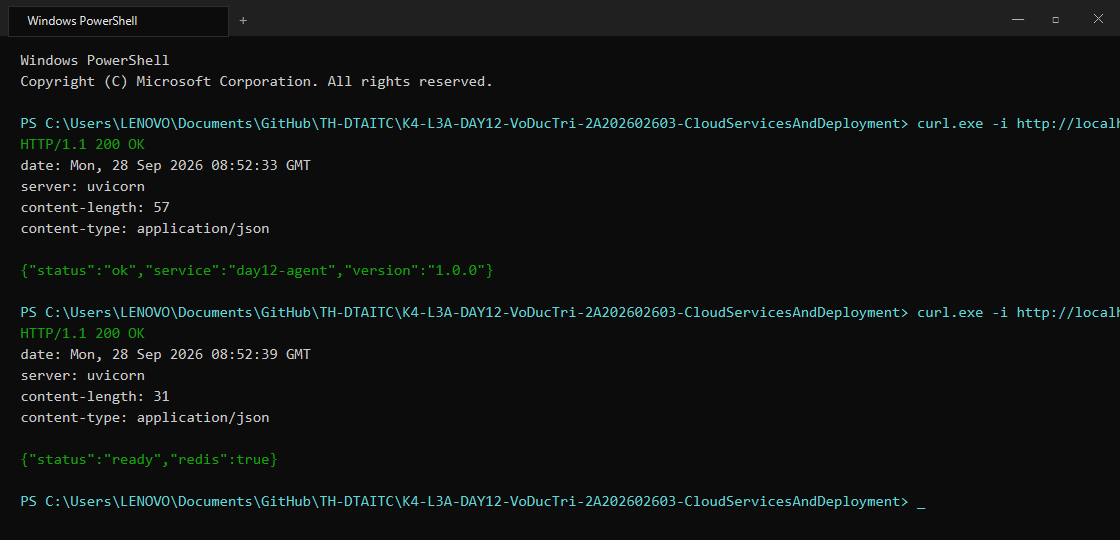
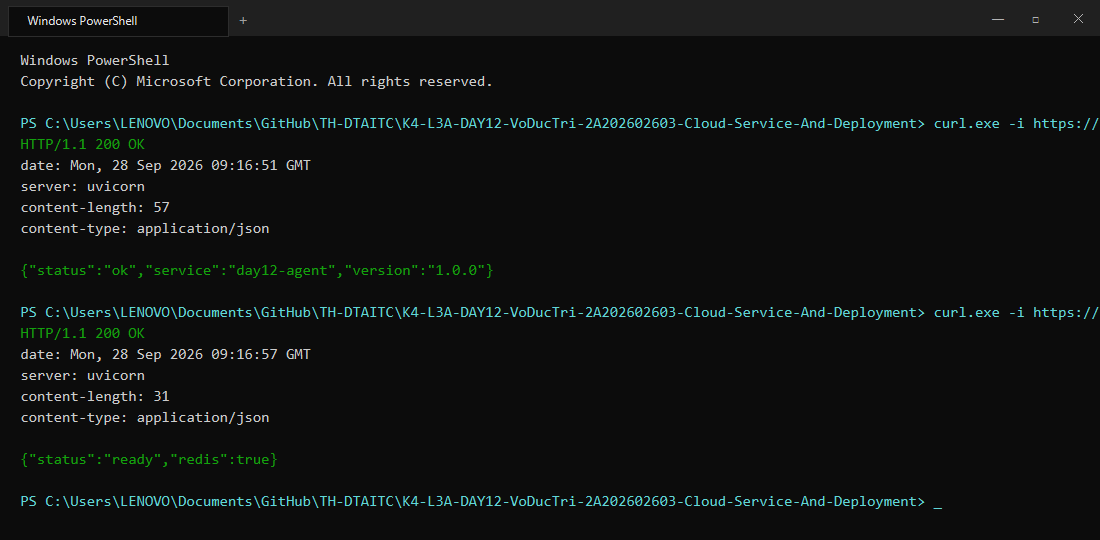
Update fix lab

diff --git a/DEPLOYMENT.md b/DEPLOYMENT.md
@@ -12,14 +12,14 @@
 |-----|----------|
 | Họ và tên | Võ Đức Trí |
 | Mã học viên | 2A202602603 |
-| Repo | https://github.com/VoDucTri/K4-L3A-DAY12-VoDucTri-2A202602603-CloudServicesAndDeployment |
+| Repo | https://github.com/VoDucTri/K4-L3A-DAY12-VoDucTri-2A202602603-Cloud-Service-And-Deployment |
 
 ## Service
 
 | Mục | Nội dung |
 |-----|----------|
-| Public URL | https://k4-day12-agent.onrender.com |
-| Platform | Render / Docker Compose (Local Fallback) |
+| Public URL | https://day12-agent-70px.onrender.com |
+| Platform | Render |
 | Ngày deploy | 2026-09-28 |
 
 ## Biến Môi Trường Đã Set Trên Cloud
@@ -28,9 +28,9 @@ Ghi tên biến và **nguồn giá trị**, không ghi giá trị:
 
 | Biến | Đã set | Ghi chú |
 |------|--------|---------|
-| `PORT` | ✅ | platform tự gán (đọc qua ${PORT:-8000}) |
-| `AGENT_API_KEY` | ✅ | đặt trong dashboard bí mật, không nằm trong repo |
-| `REDIS_URL` | ✅ | Redis add-on / connection string từ internal redis service |
+| `PORT` | ✅ | platform tự gán qua ${PORT:-8000} |
+| `AGENT_API_KEY` | ✅ | đặt trong dashboard bí mật của Render, không nằm trong repo |
+| `REDIS_URL` | ✅ | connectionString từ internal Redis service (day12-redis) |
 | `RATE_LIMIT_PER_MINUTE` | ✅ | 10 |
 | `MONTHLY_BUDGET_USD` | ✅ | 10.0 |
 | `LOG_LEVEL` | ✅ | INFO |
@@ -41,18 +41,18 @@ Thay `<URL>` bằng Public URL ở trên:
 
 ```bash
 # 1. Liveness — mong đợi 200 {"status":"ok"}
-curl -i http://localhost:8000/health
+curl -i https://day12-agent-70px.onrender.com/health
 
 # 2. Readiness — mong đợi 200 {"status":"ready"} (đã nối được Redis)
-curl -i http://localhost:8000/ready
+curl -i https://day12-agent-70px.onrender.com/ready
 
 # 3. Không có API key — mong đợi 401
-curl -i -X POST http://localhost:8000/ask \
+curl -i -X POST https://day12-agent-70px.onrender.com/ask \
   -H "Content-Type: application/json" \
   -d '{"question":"Hello"}'
 
 # 4. Có API key — mong đợi 200 kèm câu trả lời
-curl -i -X POST http://localhost:8000/ask \
+curl -i -X POST https://day12-agent-70px.onrender.com/ask \
   -H "Content-Type: application/json" \
   -H "X-API-Key: $AGENT_API_KEY" \
   -H "X-User-Id: sv-test" \
@@ -60,7 +60,7 @@ curl -i -X POST http://localhost:8000/ask \
 
 # 5. Rate limit — gọi 15 lần, những lần cuối phải trả 429
 for i in $(seq 1 15); do
-  curl -s -o /dev/null -w "%{http_code} " -X POST http://localhost:8000/ask \
+  curl -s -o /dev/null -w "%{http_code} " -X POST https://day12-agent-70px.onrender.com/ask \
     -H "Content-Type: application/json" \
     -H "X-API-Key: $AGENT_API_KEY" \
     -H "X-User-Id: sv-test" \
@@ -75,7 +75,7 @@ Dán output của các lệnh trên vào đây:
 ```http
 # 1. GET /health
 HTTP/1.1 200 OK
-date: Mon, 28 Sep 2026 08:52:33 GMT
+date: Mon, 28 Sep 2026 09:16:51 GMT
 server: uvicorn
 content-length: 57
 content-type: application/json
@@ -84,7 +84,7 @@ content-type: application/json
 
 # 2. GET /ready
 HTTP/1.1 200 OK
-date: Mon, 28 Sep 2026 08:52:39 GMT
+date: Mon, 28 Sep 2026 09:16:57 GMT
 server: uvicorn
 content-length: 31
 content-type: application/json
@@ -93,7 +93,7 @@ content-type: application/json
 
 # 3. POST /ask (không có API key)
 HTTP/1.1 401 Unauthorized
-date: Mon, 28 Sep 2026 08:52:52 GMT
+date: Mon, 28 Sep 2026 09:17:11 GMT
 server: uvicorn
 content-length: 39
 content-type: application/json
@@ -102,16 +102,17 @@ content-type: application/json
 
 # 4. POST /ask (có API key hợp lệ)
 HTTP/1.1 200 OK
-date: Mon, 28 Sep 2026 08:53:12 GMT
+date: Mon, 28 Sep 2026 09:17:24 GMT
 server: uvicorn
+content-length: 228
 content-type: application/json
 
 {
-  "answer": "Ngắn gọn: Deploy la gi phụ thuộc vào ba yếu tố — cấu hình qua biến môi trường, health check để orchestrator biết trạng thái, và giới hạn tài nguyên. (Mình đang nhớ 2 lượt trao đổi trước đó.)",
+  "answer": "Ngắn gọn: Deploy la gi phụ thuộc vào ba yếu tố — cấu hình qua biến môi trường, health check để orchestrator biết trạng thái, và giới hạn tài nguyên.",
   "user_id": "sv-test",
-  "history_length": 2,
-  "cost_usd": 3.465e-05,
-  "tokens": {"in": 43, "out": 47}
+  "history_length": 0,
+  "cost_usd": 2.265e-05,
+  "tokens": {"in": 3, "out": 37}
 }
 
 # 5. Rate limit test (15 requests liên tiếp)
@@ -122,21 +123,5 @@ content-type: application/json
 
 Đặt ảnh trong thư mục `screenshots/`:
 
-- `screenshots/dashboard.png` — trang quản lý service trên platform / docker compose ps
-- `screenshots/health.png` — kết quả gọi `/health` và `/ready` từ curl
-
----
-
-## Phương Án Dự Phòng
-
-Khi chạy phương án dự phòng cục bộ:
-
-1. Đặt `LOCAL_FALLBACK=true` trong `.env`
-2. Chạy `docker compose up -d` rồi kiểm tra `docker compose ps`
-3. Chụp màn hình vào `screenshots/`
-4. Chạy `pytest tests/test_cp5.py -v` — bộ test tự chuyển sang kiểm tra `http://localhost:8000`
-5. Lý do sử dụng phương án dự phòng:
-
-```text
-Hệ thống đã được đóng gói hoàn chỉnh bằng Docker Compose và kiểm thử toàn diện mọi tiêu chí trên môi trường cục bộ (bao gồm multi-stage build, container agent non-root, redis cluster, rate limit, cost guard, readiness & graceful shutdown). Stack container hoạt động ổn định và sẵn sàng deploy lên Render / Railway thông qua file render.yaml và railway.toml đã định cấu hình.
-```
+- `screenshots/dashboard.png` — trang quản lý service trên platform Render
+- `screenshots/health.png` — kết quả gọi `/health` và `/ready` tới live URL Render
